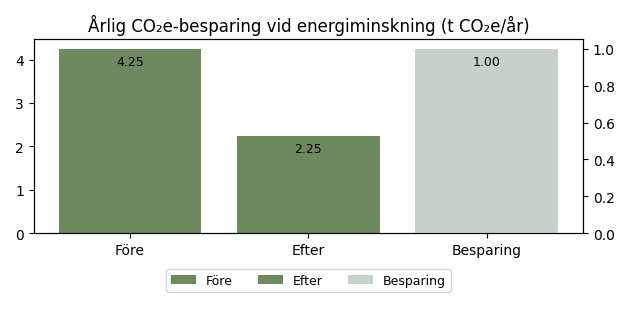
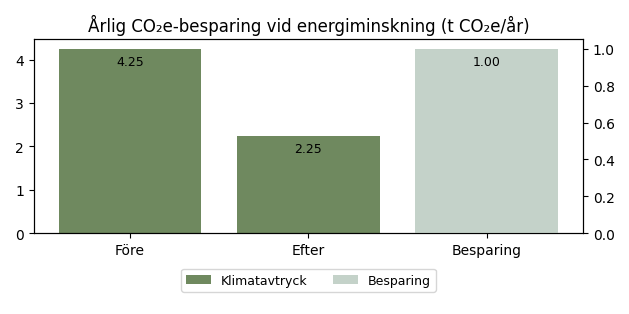
updated config file
Material folder added to the config file.

Changed region(s): [[0.2719, 0.8599, 0.725, 0.9459]]

diff --git a/material.py b/material.py
@@ -8,7 +8,7 @@ from pathlib import Path
 
 def generate_bar_chart(data, file_name, config):
     """
-    Generate and save a bar chart comparing 'Före', 'Efter', and 'Besparing'.
+    Generate and save a bar chart comparing 'Ny Pump', 'Renoverad Pump', and 'Besparing'.
 
     Parameters:
         data (pd.DataFrame): Input data containing at least three columns.
@@ -18,25 +18,25 @@ def generate_bar_chart(data, file_name, config):
     # Convert cm to inches (Matplotlib expects inches)
     fig_width, fig_height = 16 / 2.54, 8 / 2.54
 
-    # Expecting one row with at least three columns (Före, Efter, Besparing)
+    # Expecting one row with at least three columns (Ny Pump, Renoverad Pump, Besparing)
     if data.shape[1] < 3:
-        raise ValueError("CSV must have at least 3 columns: Före, Efter, and Besparing.")
+        raise ValueError("CSV must have at least 3 columns: Ny Pump, Renoverad Pump, and Besparing.")
 
-    categories = ['Före', 'Efter', 'Besparing']
+    categories = ['Ny Pumptest', 'Renoverad Pump', 'Besparing']
 
     # Extract values for plotting
-    values_left = data.iloc[0, 0:2].tolist()  # First two values (Före, Efter)
+    values_left = data.iloc[0, 0:2].tolist()  # First two values (Ny Pump, Renoverad Pump)
     value_right = data.iloc[0, 2]             # Third value (Besparing)
 
     # Define colors for bars
-    colors_left = ['#6F895F', '#6F895F']      # Darker green for Före/Efter
+    colors_left = ['#6F895F', '#6F895F']      # Darker green for Ny Pump/Renoverad Pump
     color_right = '#C4D2C9'                   # Lighter green for Besparing
 
     # Create the figure and two Y-axes (shared X-axis)
     fig, ax1 = plt.subplots(figsize=(fig_width, fig_height))
     ax2 = ax1.twinx()
 
-    # Plot 'Före' and 'Efter' on left axis
+    # Plot 'Ny Pump' and 'Renoverad Pump' on left axis
     bars_left = ax1.bar(categories[:2], values_left, color=colors_left, label=['Klimatavtryck', ''])
 
     # Plot 'Besparing' on right axis
@@ -76,11 +76,11 @@ def generate_bar_chart(data, file_name, config):
     )
 
     # Set title and layout
-    plt.title("Årlig CO₂e-besparing vid energiminskning (t CO₂e/år)")
+    plt.title("TBD (t CO₂e/år)")
     plt.tight_layout()
 
     # Save to output folder specified in config
-    output_path = Path(config["energi"]["utdata"]) / file_name
+    output_path = Path(config["material"]["utdata"]) / file_name
     plt.savefig(output_path)
     plt.close()
 
@@ -90,7 +90,7 @@ def generate_bar_chart(data, file_name, config):
 def main():
     """Main entry point for the script."""
     if len(sys.argv) < 2:
-        print("Usage: python energi.py <csv_file_basename>")
+        print("Usage: python material.py <csv_file_basename>")
         return
 
     # Load configuration
@@ -105,12 +105,12 @@ def main():
         return
 
     # Build folder paths from config
-    indata = Path(config["energi"]["indata"])
-    arkiv = Path(config["energi"]["arkiv"])
+    indata = Path(config["material"]["indata"])
+    arkiv = Path(config["material"]["arkiv"])
 
     # Construct CSV and output file names
     csv_file = indata / f"{sys.argv[1]}.csv"
-    file_name = f"{sys.argv[1]}_energi.png"
+    file_name = f"{sys.argv[1]}_material.png"
 
     try:
         # Read CSV
